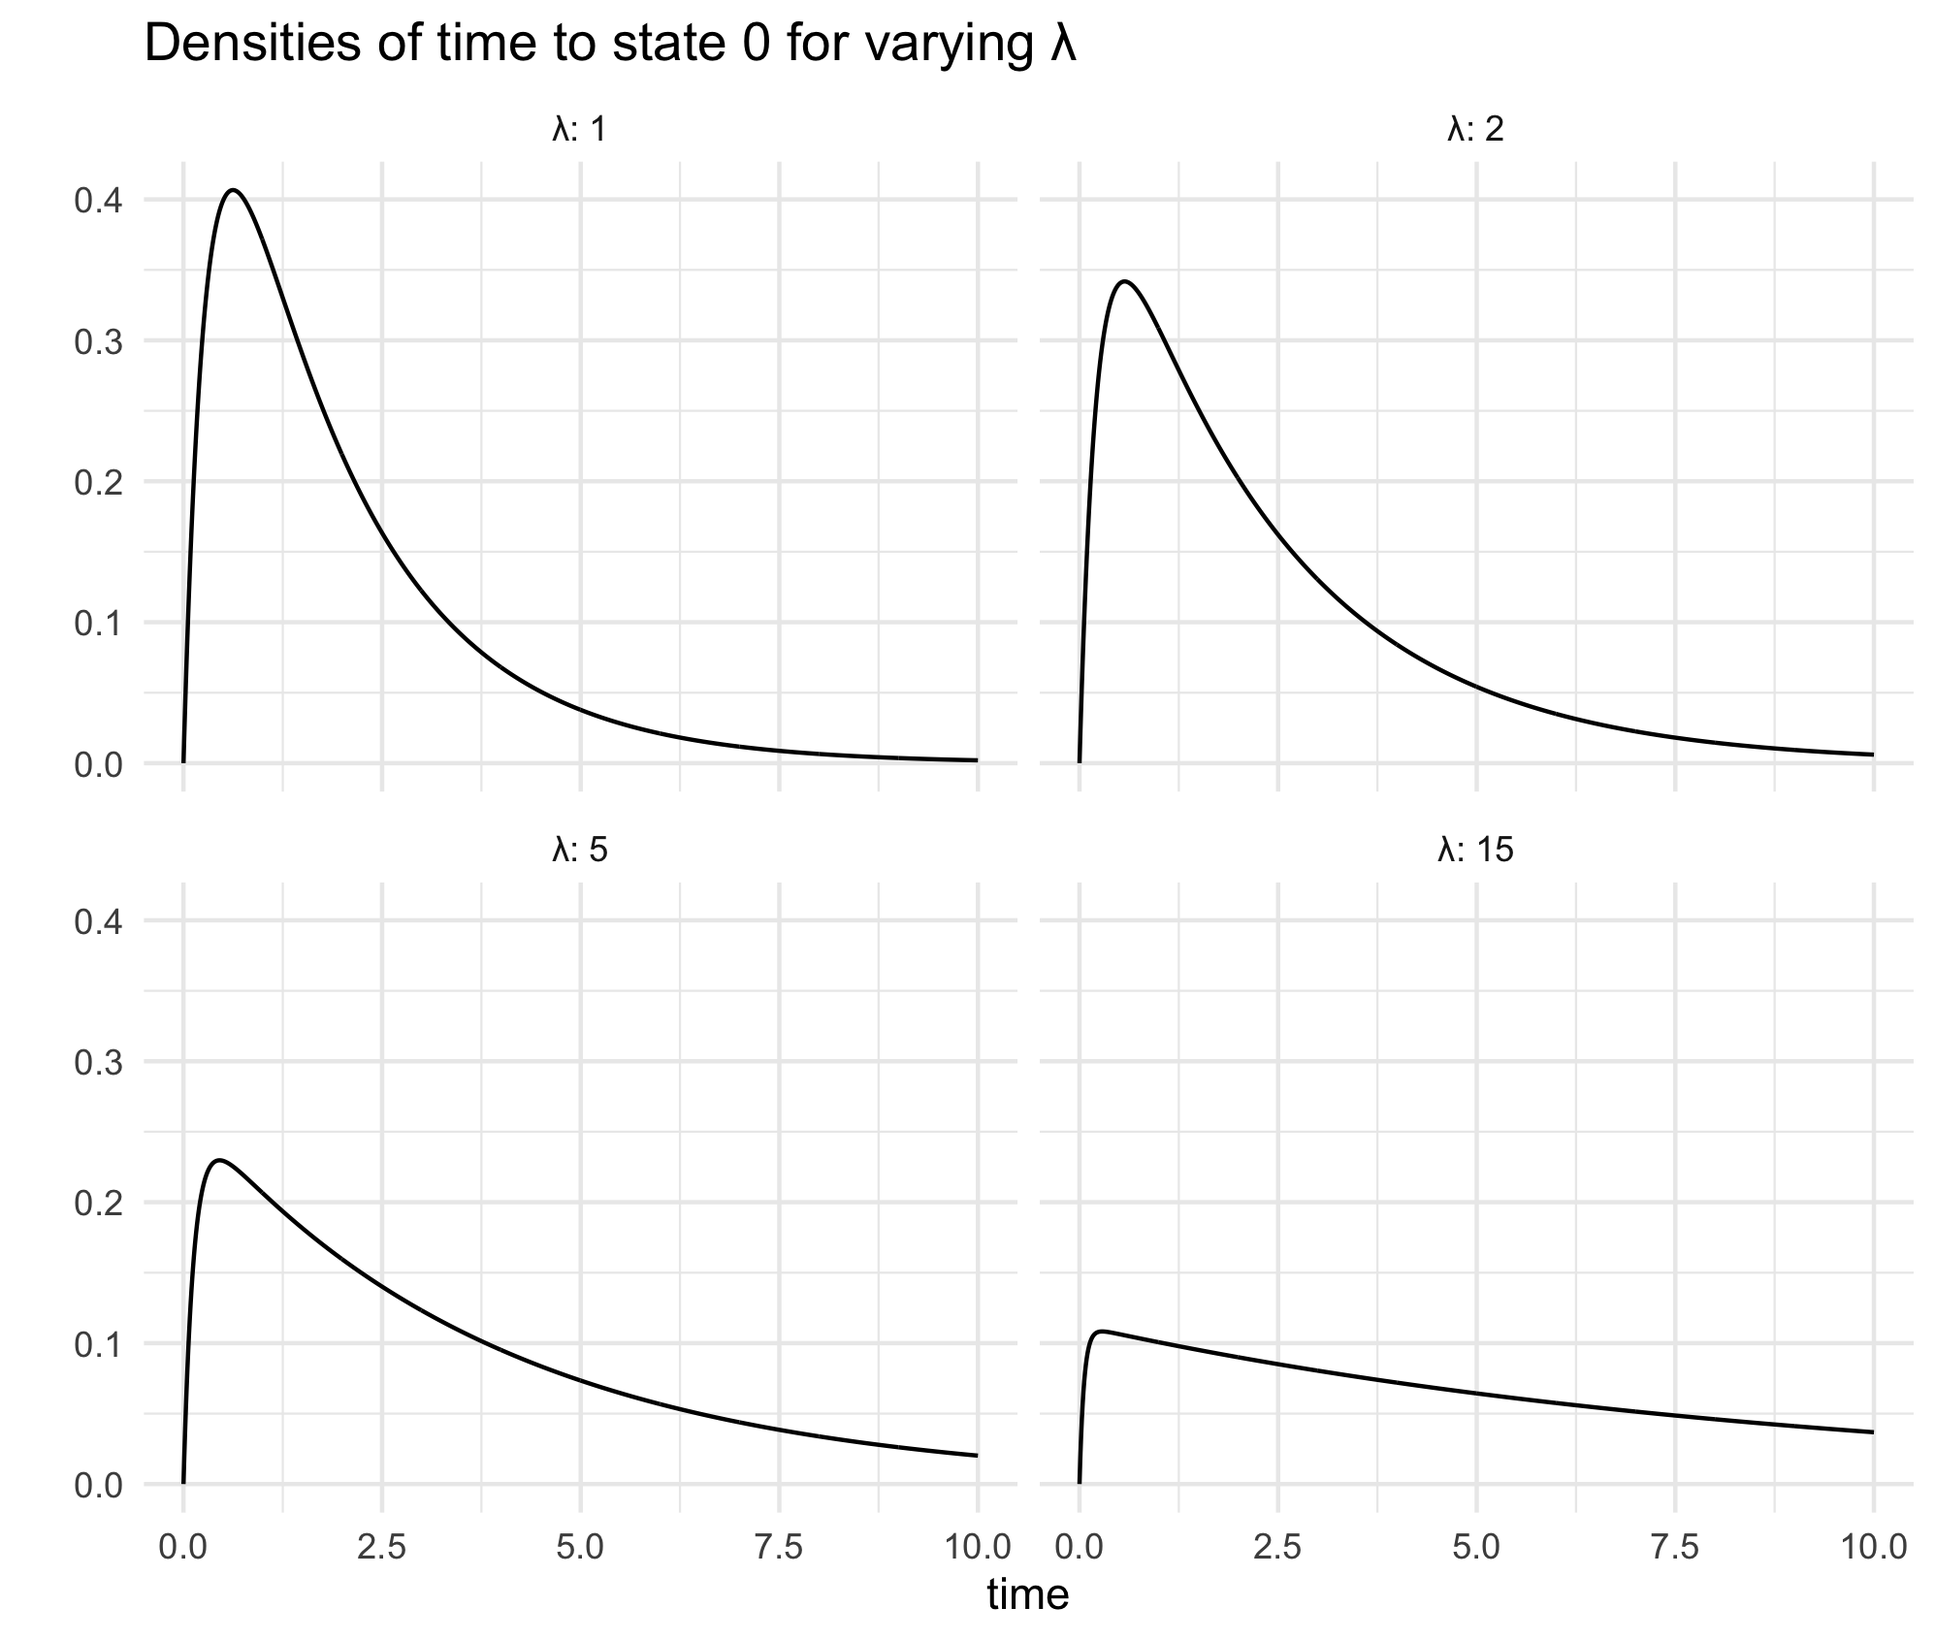
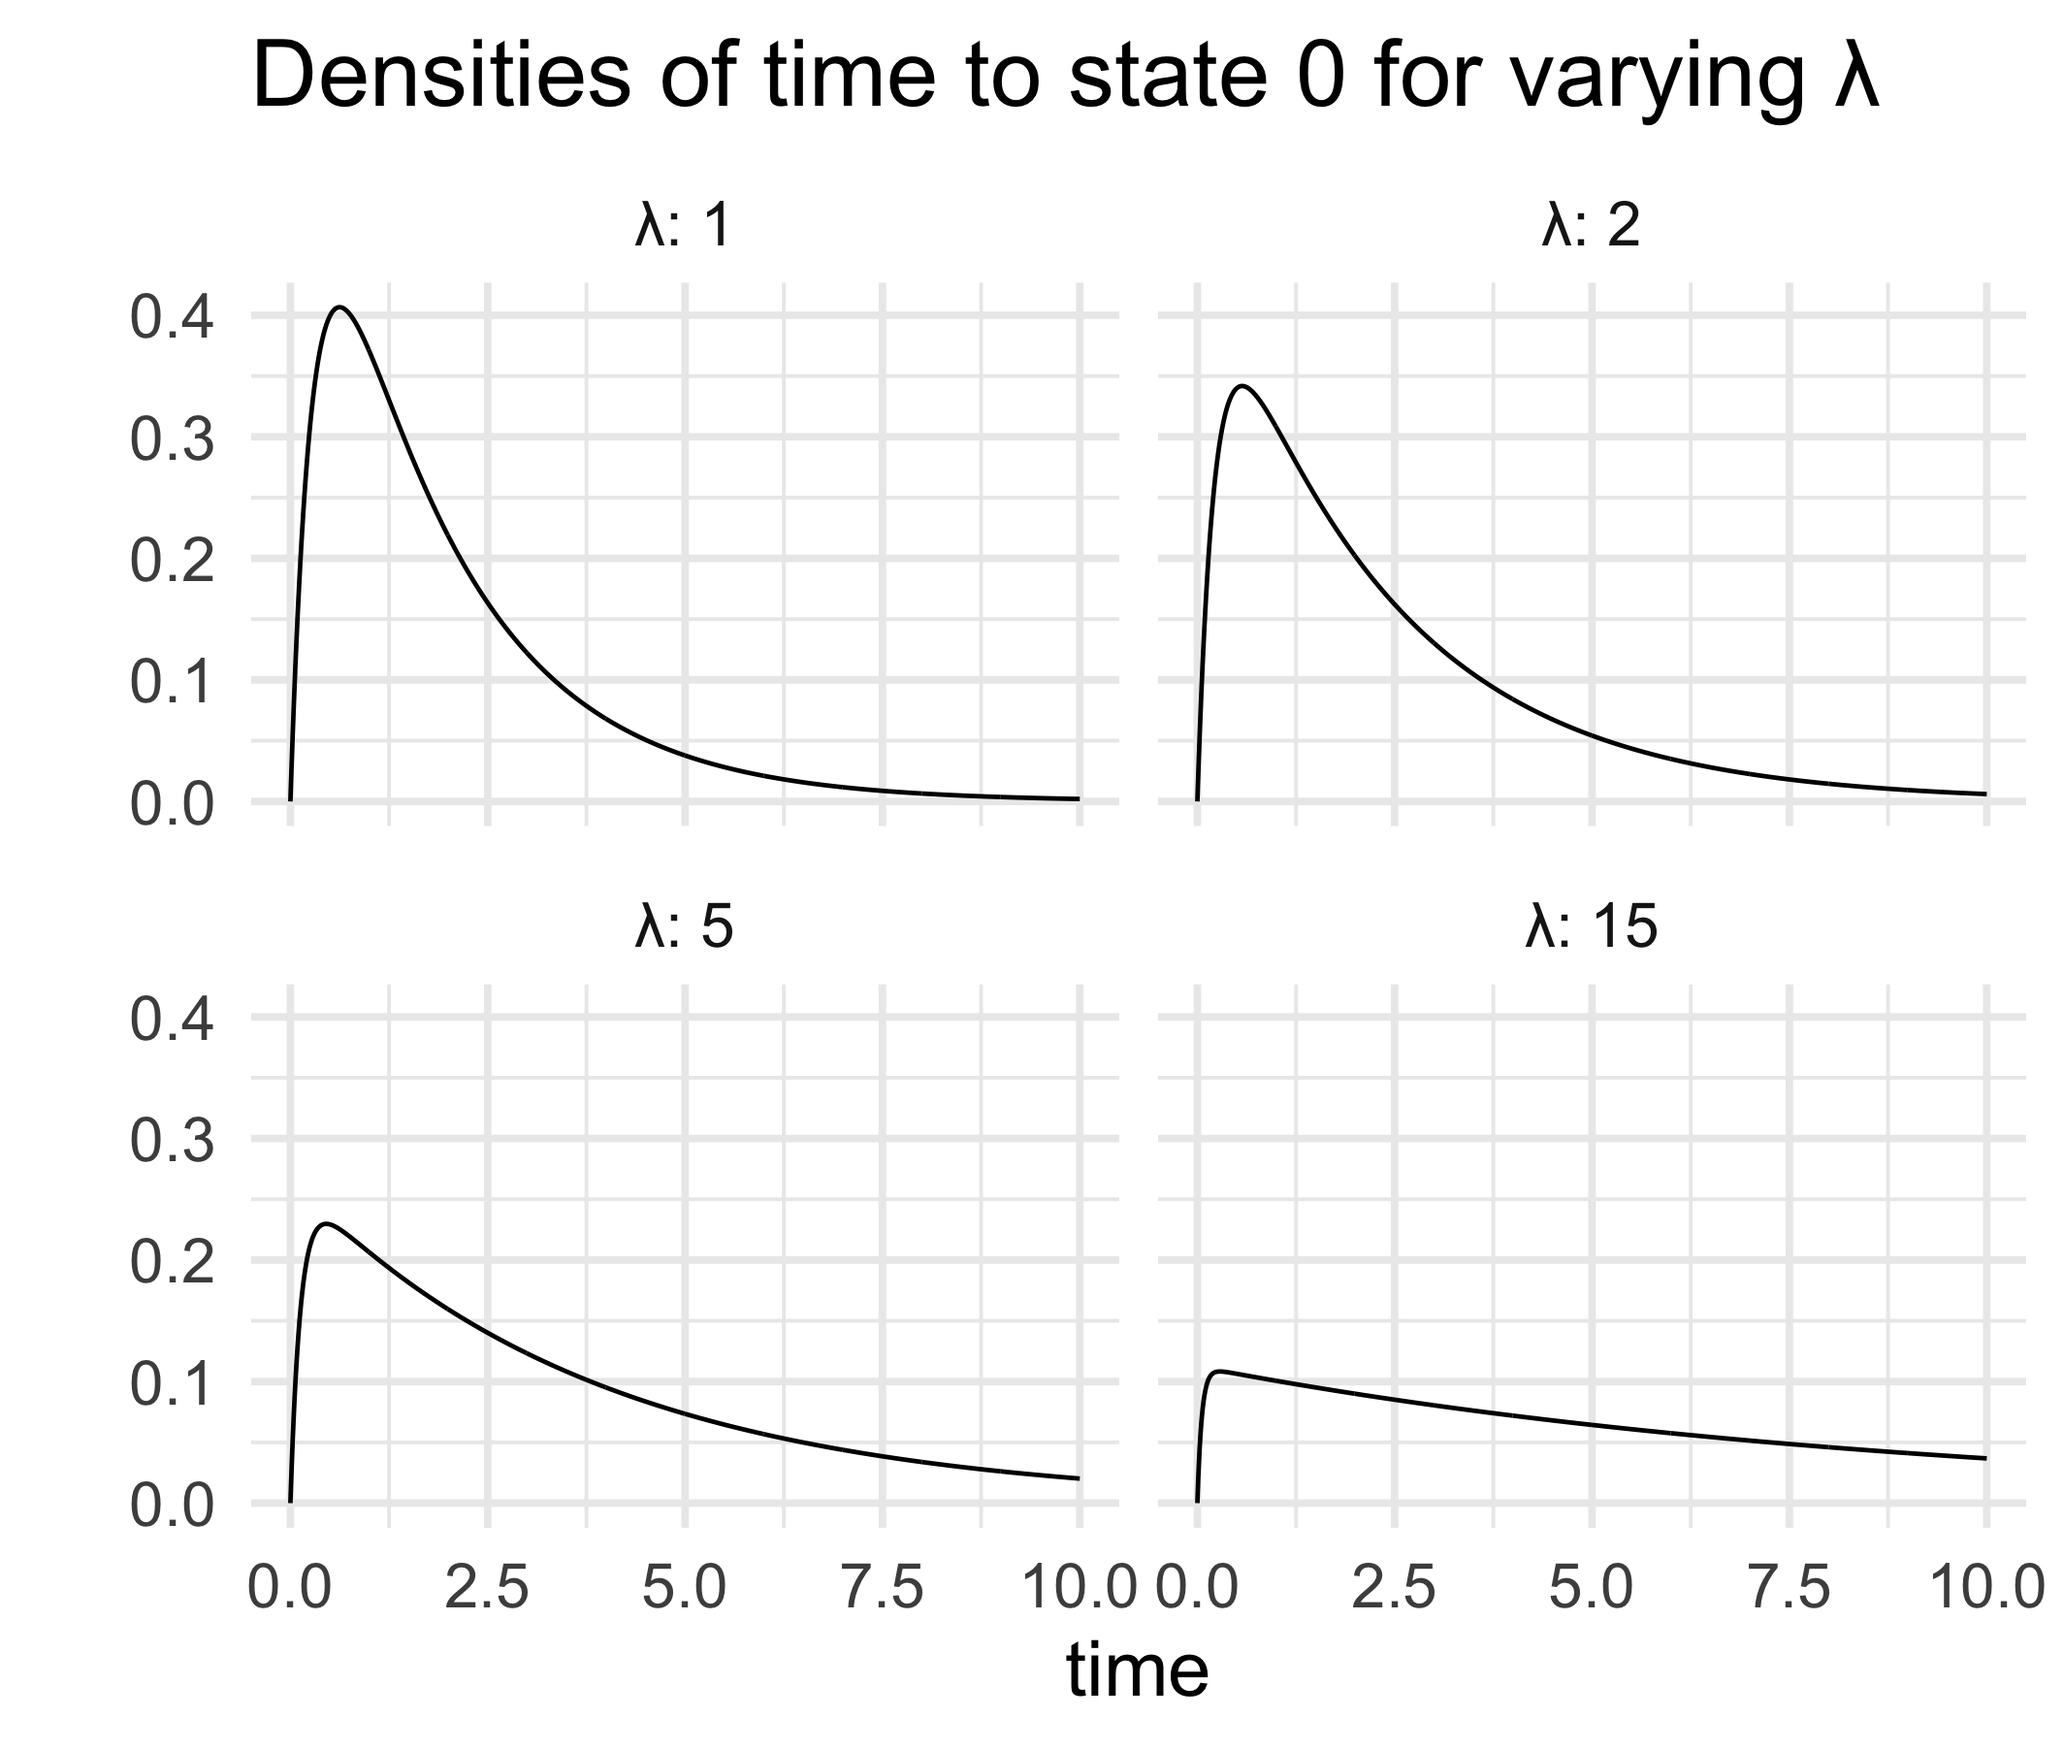
Major tex updates including phase-type distributions

diff --git a/main.tex b/main.tex
@@ -36,6 +36,8 @@
 \newtheorem{note}{Note}
 \newtheorem*{remark}{Remark}
 
+\numberwithin{equation}{section}
+
 \newcommand{\R}{\mathbb{R}}
 \newcommand{\Rs}{\mathcal{R}}
 \newcommand{\Gs}{\mathcal{G}}
@@ -756,16 +758,26 @@ Using Wolfram Language we can compute the matrix exponential which is complicate
 \end{align*}
 
 Then the density of $T_\lambda$ is defined as
-\begin{align*}
-f(x) &= \boldsymbol{\alpha} \exp(\mathbf{S} x) \mathbf{s}\\
-&= (1, 0) \exp(\mathbf{S} x) (0,1)^T\\
-&= A_{12}\\
+\begin{align}
+f(x; \lambda) &= \boldsymbol{\alpha} \exp(\mathbf{S} x) \mathbf{s} \nonumber\\
+&= (1, 0) \exp(\mathbf{S} x) (0,1)^T \nonumber\\
+&= A_{12} \nonumber\\
 &= \frac{2 e^{\frac{1}{2} \left(\sqrt{\lambda ^2+6
    \lambda +1}-\lambda -3\right) x}}{\sqrt{\lambda ^2+6 \lambda +1}}-\frac{2
    e^{\frac{1}{2} \left(-\sqrt{\lambda ^2+6 \lambda +1}-\lambda -3\right)
-   x}}{\sqrt{\lambda ^2+6 \lambda +1}}
-\end{align*}
+   x}}{\sqrt{\lambda ^2+6 \lambda +1}} \label{eq:t_density}
+\end{align}
 
+\begin{figure}
+  \centering
+    \includegraphics[width=.80\textwidth]{figures/contact_phase_densities.png}
+   \caption{Density functions for $T_\lambda$ for $\lambda = 1, 2, 5, 15$ on the contact process with two nodes}
+  \label{fig:contact_phase_densities}
+\end{figure}
+
+In Figure \ref{fig:contact_phase_densities} we plot the density from Equation \ref{eq:t_density} for various values of $\lambda$.
+We can see that increasing $\lambda$ very quickly increases the the amount of time that we wait until absorption.
+It is clear that as $\lambda \to \infty$ then $T_\lambda$ approaches infinity in distribution.
 
 \begin{theorem}
 Let $T_\lambda$ be the time in which we hit $(0,0)$.
